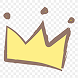
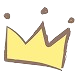
distinguished player, fixed crown

diff --git a/lobby.ts b/lobby.ts
@@ -186,7 +186,7 @@ function updateUI() {
       ${player.id === hostId ? '<img src="/assets/lobby/crown.png" class="crown-img" alt="Host">' : ""}
       <button class="player-button"><div class="stick-man" style="background-color: ${hex}">ツ</div></button>
       ${isReady ? '<div class="ready-tag">READY!</div>' : ""}
-      <p>${name}</p>
+      <p>${name} ${player.id === myPlayer().id ? "(You)" : ""}</p>
     `;
 
     const playerBtn = slot.querySelector(".player-button") as HTMLButtonElement;

diff --git a/lobby.css b/lobby.css
@@ -119,7 +119,7 @@ body {
 
   /* Create an invisible border of the target thickness */
   border: 2px solid transparent;
-  transition: border-color 0.2s ease-in-out;
+  transition: none;
 
   /* Ensure it wraps the inner stick-man perfectly */
   width: fit-content;
